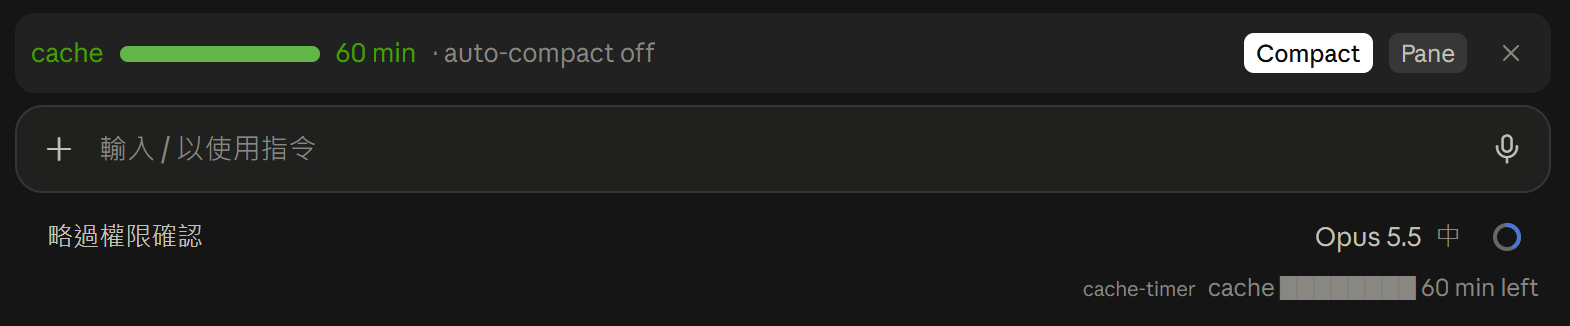
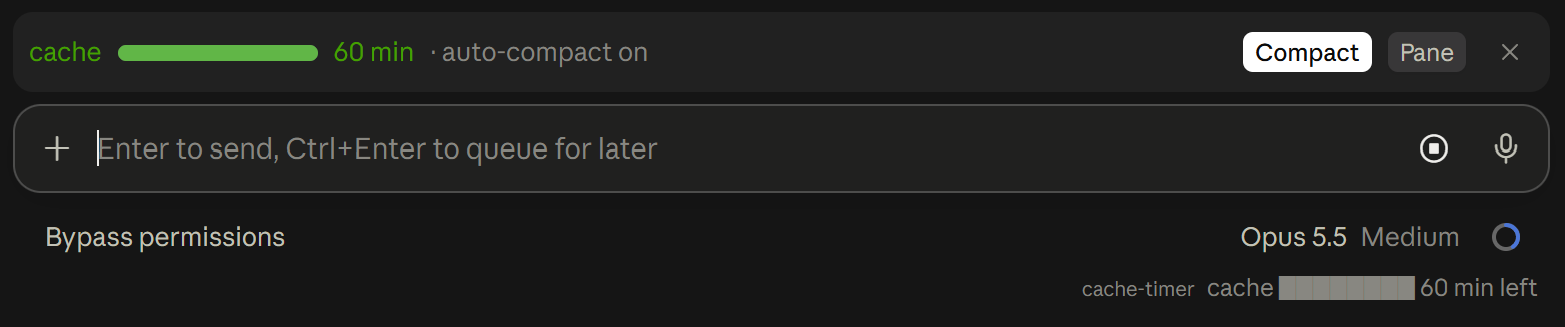
Refresh the screenshots with auto-compact on
Retake the band with auto-compact on, so the first image matches the
feature the README leads with, and the pane in English now that its
title follows the language. Rebuild the social preview from the new band.

diff --git a/README.zh-TW.md b/README.zh-TW.md
@@ -75,7 +75,7 @@ git clone https://github.com/mileschintw/claude-cache-timer.git ~/.claude/mods/c
 - **提示框上方的進度條**：預設關閉，用 `/cache band on` 開啟。快取過期後會顯示下一則訊息要重新寫入多少 tokens。
 - **`/cache` 面板**：剩餘時間和「立即壓縮」按鈕、上次讀寫了多少 tokens、本 session 的命中率、過期與壓縮次數，以及每次請求快取命中比例的迷你圖。所有設定也都在這裡，每一項是一排按鈕，目前的值會標示出來。
 
-  <img src="docs/images/pane-desktop.png" alt="/cache 面板：剩餘時間、上次讀寫、本 session 統計與設定" width="320">
+  <img src="docs/images/pane-desktop.png" alt="/cache 面板：剩餘時間、上次讀寫、本 session 統計與設定" width="400">
 - **到期提醒**：1h 快取在過期前 5 分鐘提醒（5m 快取是前 1 分鐘），過期時再提醒一次。
 - **自動壓縮**：預設關閉。在過期前 1、2 或 5 分鐘、快取還有效時壓縮對話。
 - **一鍵壓縮**：在進度條或面板按按鈕。壓縮進行中按鈕會顯示「壓縮中…」，完成後進度條會提示下一則訊息會寫入新的快取。

diff --git a/README.md b/README.md
@@ -75,7 +75,7 @@ Every session started after that loads the mod.
 - **Band above the prompt.** Off by default; turn it on with `/cache band on`. After the cache expires, it says how many tokens the next message re-writes.
 - **`/cache` pane.** The time left and a Compact button, the last read and write sizes, this session's hit rate, expiries and compactions, and a sparkline of how much of each request the cache served. It also holds the settings, each a row of buttons with the current value highlighted.
 
-  <img src="docs/images/pane-desktop.png" alt="The /cache pane: time left, last read and write, session stats and settings" width="320">
+  <img src="docs/images/pane-desktop.png" alt="The /cache pane: time left, last read and write, session stats and settings" width="400">
 - **Expiry reminders.** A toast 5 minutes before a 1h cache expires (1 minute before a 5m one), and another when it has expired.
 - **Auto-compact.** Off by default. Compacts 1, 2 or 5 minutes before expiry, while the cache is still warm.
 - **One-click compact.** From the band or the pane. The button reads `Compacting…` until the compaction ends, and the band then says the next message writes a fresh cache.
